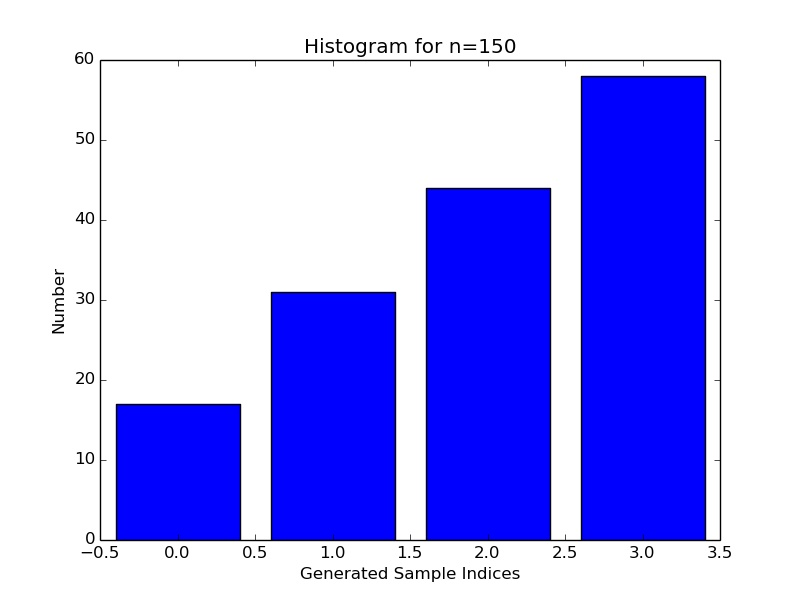
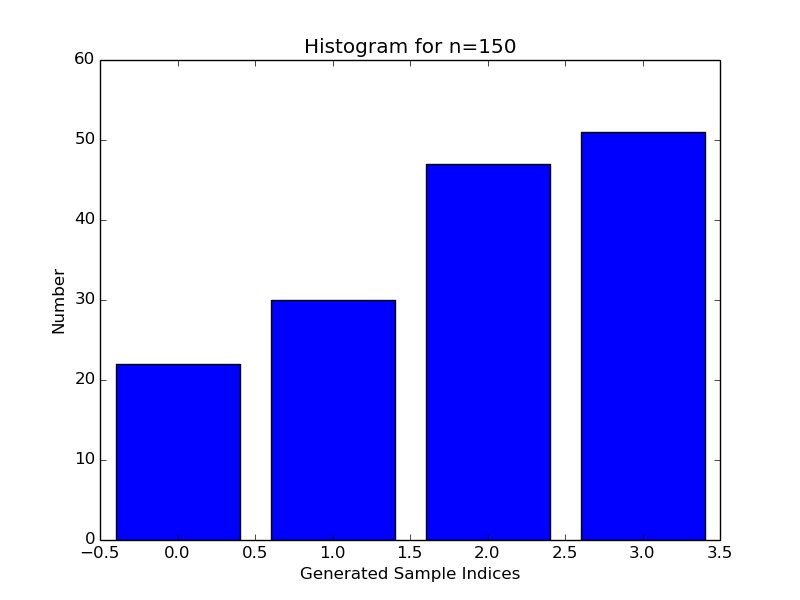
Incorrectly working Online Classifier

diff --git a/hw3/hw3_submission.py b/hw3/hw3_submission.py
@@ -19,7 +19,7 @@ import matplotlib.cm as cm
 PATH = "./cancer_csv/"
 IMAGE_PATH = PATH+'../images/'
 NUM_TEST = 183  # Define the number of test cases
-T = 10	# number of iterations of the problem
+T = 1000	# number of iterations of the problem
 
 def getData(file):
     reader=csv.reader(open(file,"rb"),delimiter=',')
@@ -47,10 +47,7 @@ def genC(n, w):
 	return c
 
 def calc_ft(X_train, w, classifier):
-    if classifier == BINARY or classifier == NONE:
-        ft = np.sign(np.dot(X_train, w))
-    elif classifier  ==  ONLINE:
-	ft = np.sign(np.dot(X_train,w))
+    ft = np.sign(np.dot(X_train,w))
 
     for elem in ft:
         if not elem:
@@ -88,11 +85,31 @@ def BinaryClassifier(X_train, y_train):
 
 def OnlineClassifier(X_train, y_train):
     n = np.size(X_train,axis=0)
-    w = np.ones((np.size(X_train,axis=1),1))
-    return w
+    w = np.zeros((np.size(X_train,axis=1),1))
+
+    
+        
+    eta = 0.1   #step size
+    for i in range(0,n):
+        z = np.array(np.dot(y_train[i]*X_train[i,:],w))
+        #print np.size(z, axis=0), np.size(z,axis=1)
+        sig = 1.0/(1+np.exp(-z))   
+        print "yX:"
+        print np.size(y_train[i]*X_train[i,:],axis=0)
+        #print np.size(y_train[i]*X_train[i,:],axis=1)
+        w = np.array(w) + np.array(eta*(1-sig)*y_train[i]*X_train[i,:])
+        #print i
+        
+    return w[-1]
 
 def calcEps(y_train, f_train, pt):
-    sgn_vec = [np.sign(y_train[idx]*f_train[idx,0]) for idx,elem in enumerate(y_train)]
+    print type(y_train)
+    #print np.size(f_train, axis =1)
+    try:
+        sgn_vec = [np.sign(y_train[idx]*f_train[idx,0]) for idx,elem in enumerate(y_train)]
+    except:
+        sgn_vec = [np.sign(y_train[idx]*f_train[idx]) for idx,elem in enumerate(y_train)]
+        
     eps = 0
     for idx,sign in enumerate(sgn_vec):
         if sign < 0:
@@ -100,6 +117,8 @@ def calcEps(y_train, f_train, pt):
     return eps, sgn_vec
 
 def calcAlpha(eps):
+    if not eps:
+        eps = 1e-8
     alpha = 0.5*np.log((1-eps)/eps)
     return alpha
     
